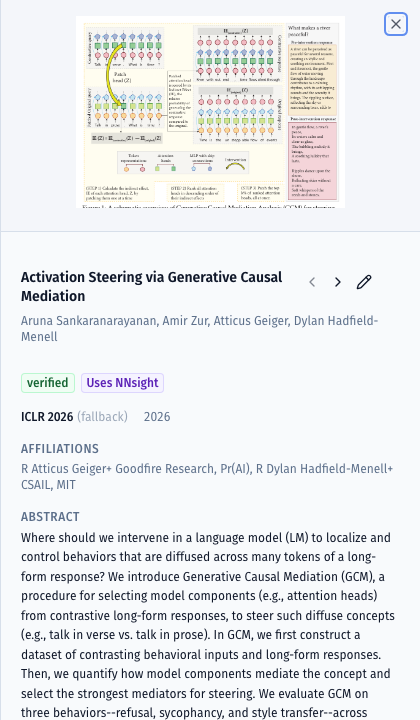
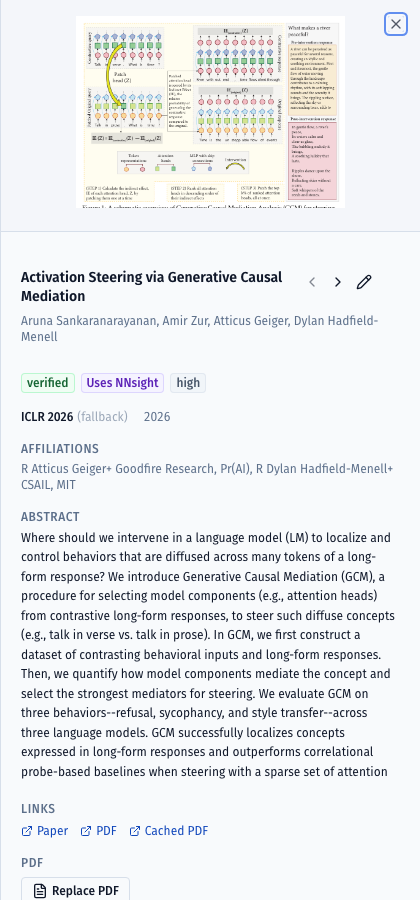
docs(onboarding): show the confidence badge in the detail sheet
Follows the confidence_band fix: the detail sheet now renders the
confidence badge (verified | Uses NNsight | high), so reflect that in
§12/§14/glossary and recapture 22-paper-detail.png with the badge.

diff --git a/onboarding/README.md b/onboarding/README.md
@@ -247,7 +247,7 @@ When you open a paper you'll see a few labels. Here's how to read them.
 | **referencing** | Mentions NDIF/NNsight without actively using it. |
 | **unclassified** | The classifier couldn't find clear evidence either way. |
 
-**Confidence** — *how sure the classifier was.* It shows in the **Conf.** column on the Papers table (and on each run-results row), lowercased:
+**Confidence** — *how sure the classifier was.* It shows in the **Conf.** column on the Papers table (and on each run-results row), and as a badge on the paper detail sheet, lowercased:
 
 | Conf. | What it means for you |
 |---|---|
@@ -257,7 +257,7 @@ When you open a paper you'll see a few labels. Here's how to read them.
 | **low** | Guessed from keywords because the LLM was unavailable. Re-run with the LLM and it usually upgrades. Lands in Pending. |
 | **none** | Unclassified — no confidence shown. |
 
-The short version: **anything that lands in Pending is asking for your eyes.** *medium* and *low* are the ones most worth verifying by hand. (Confidence is a quick at-a-glance signal in the table — it isn't repeated inside the detail sheet, where the **bucket** and **category** badges are what you act on.)
+The short version: **anything that lands in Pending is asking for your eyes.** *medium* and *low* are the ones most worth verifying by hand.
 
 ---
 
@@ -284,7 +284,7 @@ Click a paper to open its detail sheet.
 
 ![Paper detail](images/22-paper-detail.png)
 
-The top of the sheet shows the **bucket** badge (e.g. `verified`) and the **category** badge (e.g. `Uses NNsight`), the **thumbnail** (click to zoom), **affiliations**, and the **abstract**. Here you can:
+The top of the sheet shows the **bucket** badge (e.g. `verified`), the **category** badge (e.g. `Uses NNsight`), and the **confidence** badge (e.g. `high`), plus the **thumbnail** (click to zoom), **affiliations**, and the **abstract**. Here you can:
 
 - **Edit any field inline** — click a value (e.g. a missing **Venue**) and type. Editing a field **locks** the paper (🔒) so a future run won't clobber your work.
 - See links to the **Paper / PDF / Cached PDF** and the **evidence** snippets the classifier used.
@@ -417,7 +417,7 @@ Also on the **Publish** tab: **Export .xlsx** downloads the whole catalog as a m
 |---|---|
 | **Bucket** | Where a paper sits in review: **Verified / Pending / Discarded**. Only Verified publishes. |
 | **Category** | The paper's relationship to NDIF: **uses NDIF / uses NNsight / referencing / unclassified**. |
-| **Confidence** | How sure the classifier was, shown in the Papers table **Conf.** column: **certain / high / medium / low / none**. *medium* and *low* are the ones worth verifying by hand. |
+| **Confidence** | How sure the classifier was, shown in the Papers table **Conf.** column and as a badge on the detail sheet: **certain / high / medium / low / none**. *medium* and *low* are the ones worth verifying by hand. |
 | **Curator-locked (🔒)** | A paper you've hand-edited/promoted/discarded. The pipeline never overwrites your fields again (it only fills blanks). |
 | **The review gate** | The pause in an Incremental run where you choose Process / Skip / Discard *before* any LLM spend. |
 | **Backfill evidence** | A free, no-LLM action that re-reads a paper's cached PDF and refreshes the evidence snippets. |
